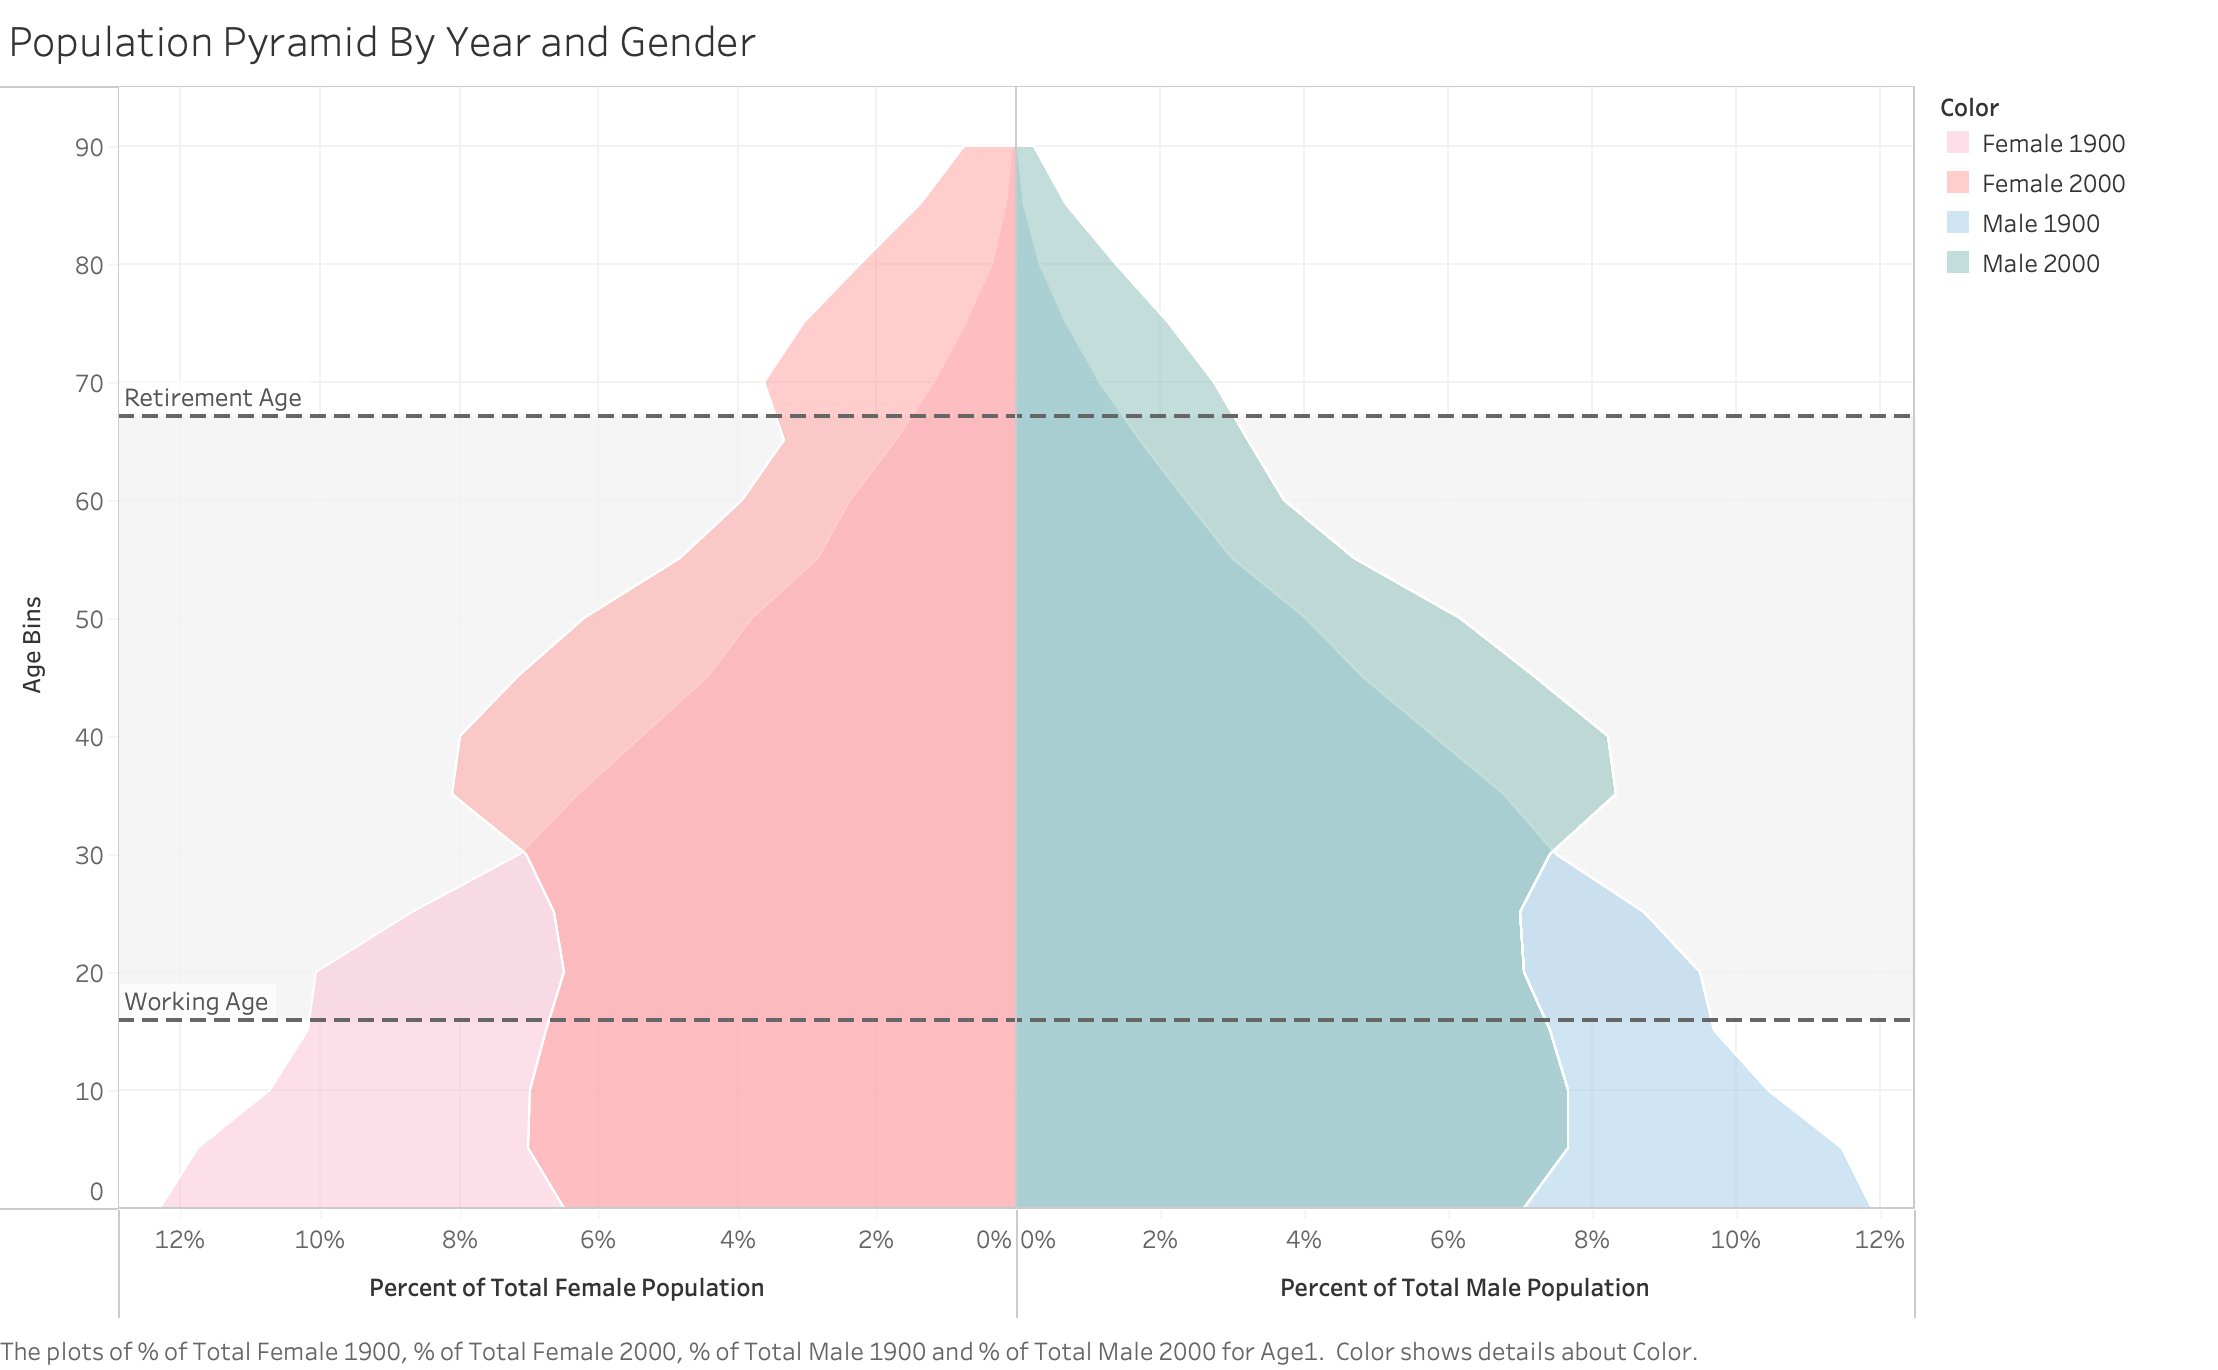
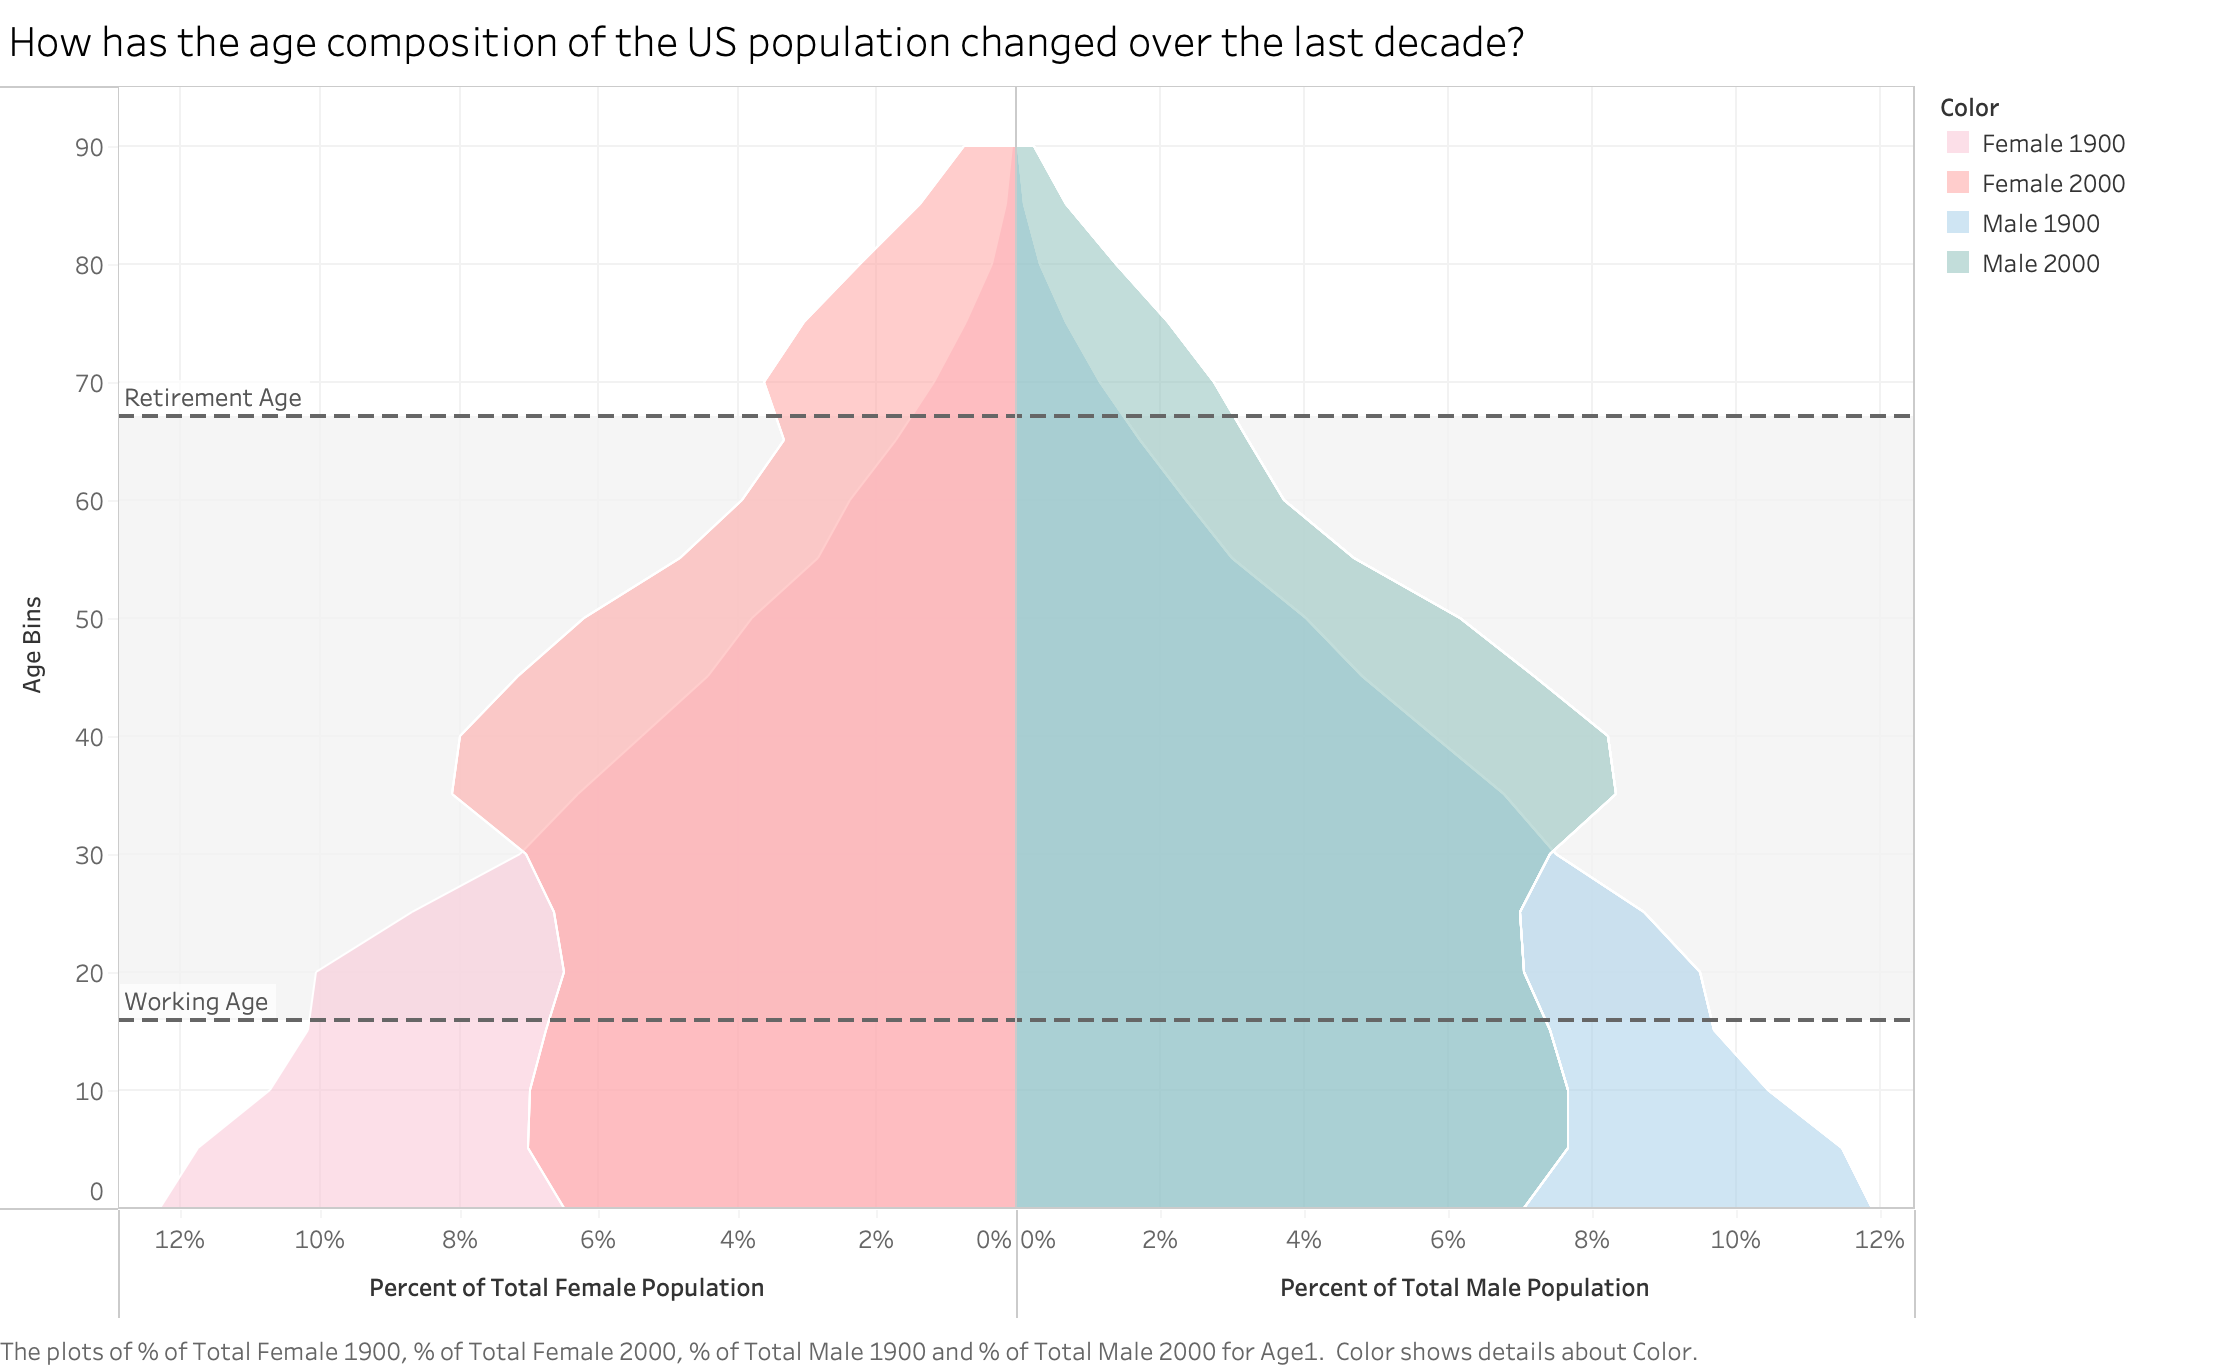
final changes

Changed region(s): [[0.0, 0.0, 0.5289, 0.0613], [0.56, 0.0307, 0.6844, 0.0613]]

diff --git a/index.html b/index.html
@@ -41,17 +41,13 @@
       <figure>
 				<img src="img/fig2.jpg" alt="" width="100%"/>
 				<figcaption>
-					This is a multi-year bar chart, one bar chart per gender.  
+					This is a multi-year bar chart, one bar chart per gender. The x-axis represents the different age bins and the y-axis is the population count. For each bar chart (1 per gender) the population for the 2 years (1900 and 2000) are plotted next to each other.  
 				</figcaption>
 			</figure>
 
 			<p>
 				Design Rationale for Sketch 2:
 			</p>
-            What was your motivation behind generating this sketch? 
-            What were you hoping it would communicate? 
-            What worked well and what didn’t? 
-            What would you like to explore in the next sketch?
 			<ul>
 				<li>My motivation is to see how within each gender, the population across age groups differs between the two centuries.</li>
 				<li>My goal is to show how the population distribution across age groups is different in 1900 compared to 2000.</li>
@@ -80,7 +76,11 @@
       <h3>Reflection</h3>
 
       <p>
-        WRITE REFLECTION ON ALL 3 SKETCHES HERE.
+        My general question is how has the age composition of the US population changed over the last decade? I believe my third sketch captures this question best and it is what I used as my inspiration for my final visualization.
+		My first sketch, a bubble chart incorporating pie charts, ambitiously attempted to represent alot of data about age and gender distribution. However, I realized that interpreting numerous pie charts was not intuitive, leading me to consider separating the data by gender in future iterations. 
+		The second sketch, a gender-divided multi-year bar chart, simplified gender comparisons within each year but made cross-gender comparisons not as simple. 
+		Addressing this in my third sketch, the population pyramid, I found a more effective balance. By using a shared y-axis and diverging x-axes for each gender, along with color coding, I was able to make clearer comparisons across both genders and time periods. 
+		This iterative process was important to refining my visualization in attempt to answer my original question.
       </p>
 
 		</section>
